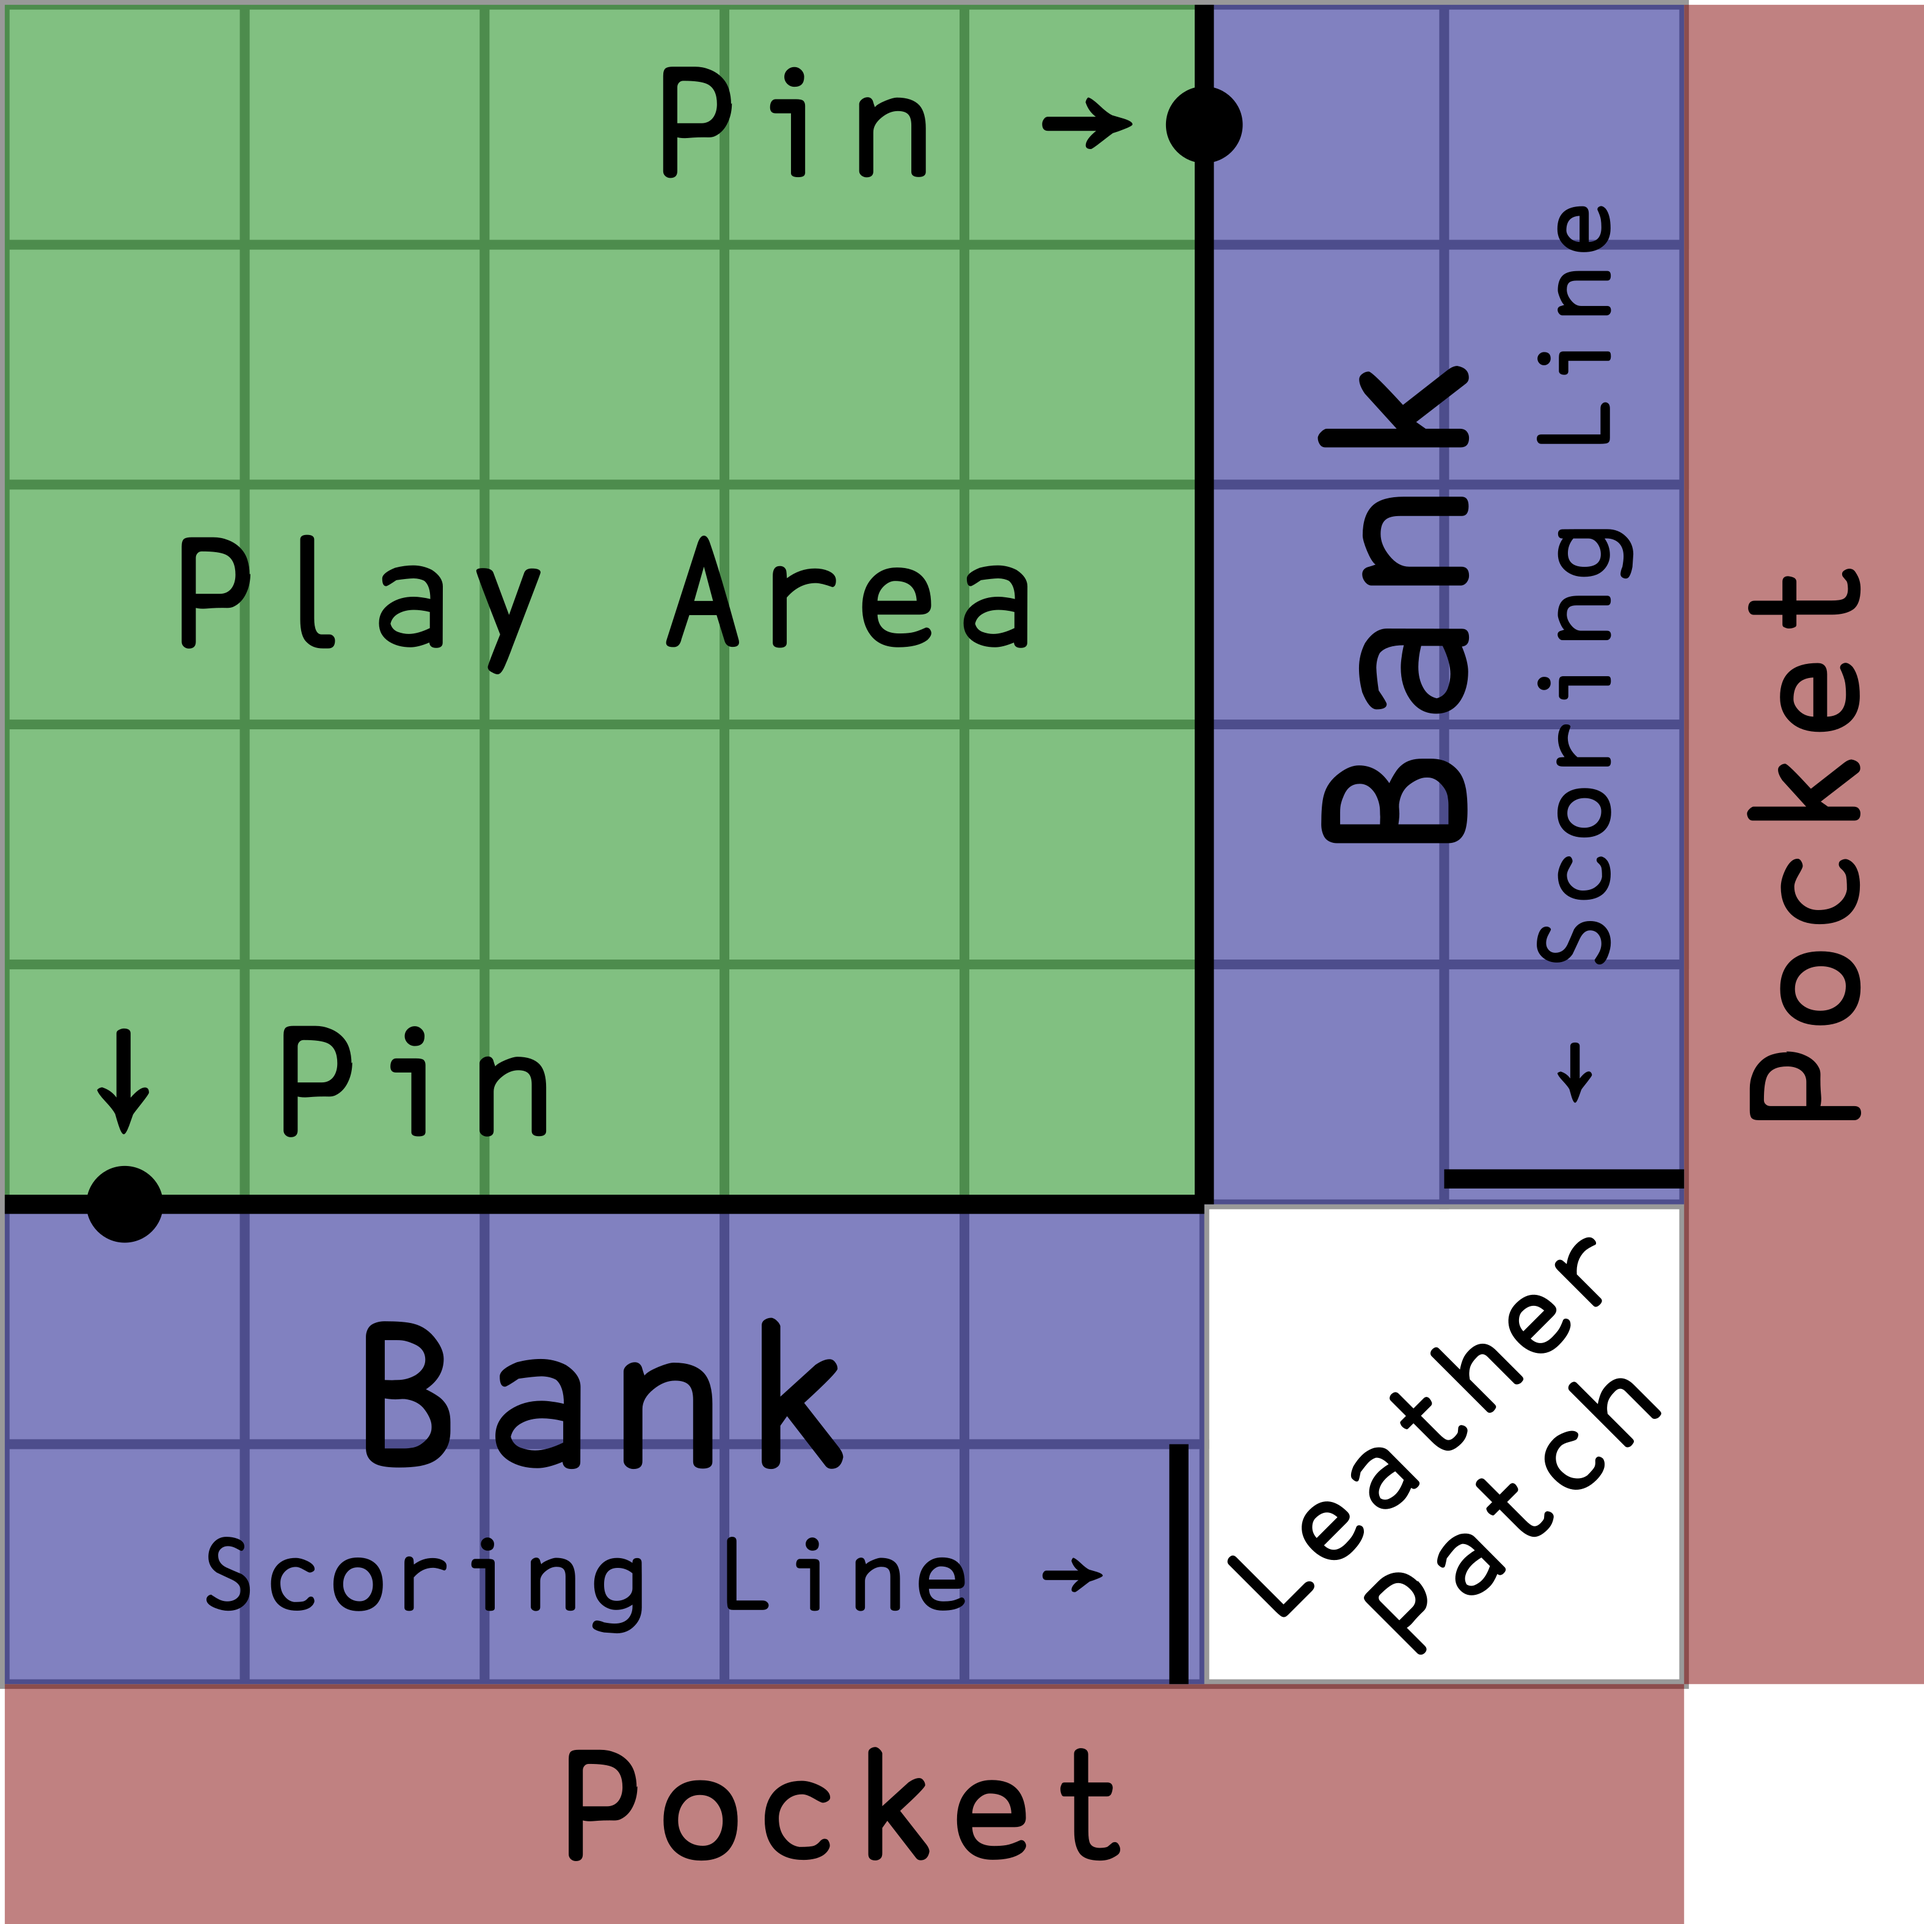
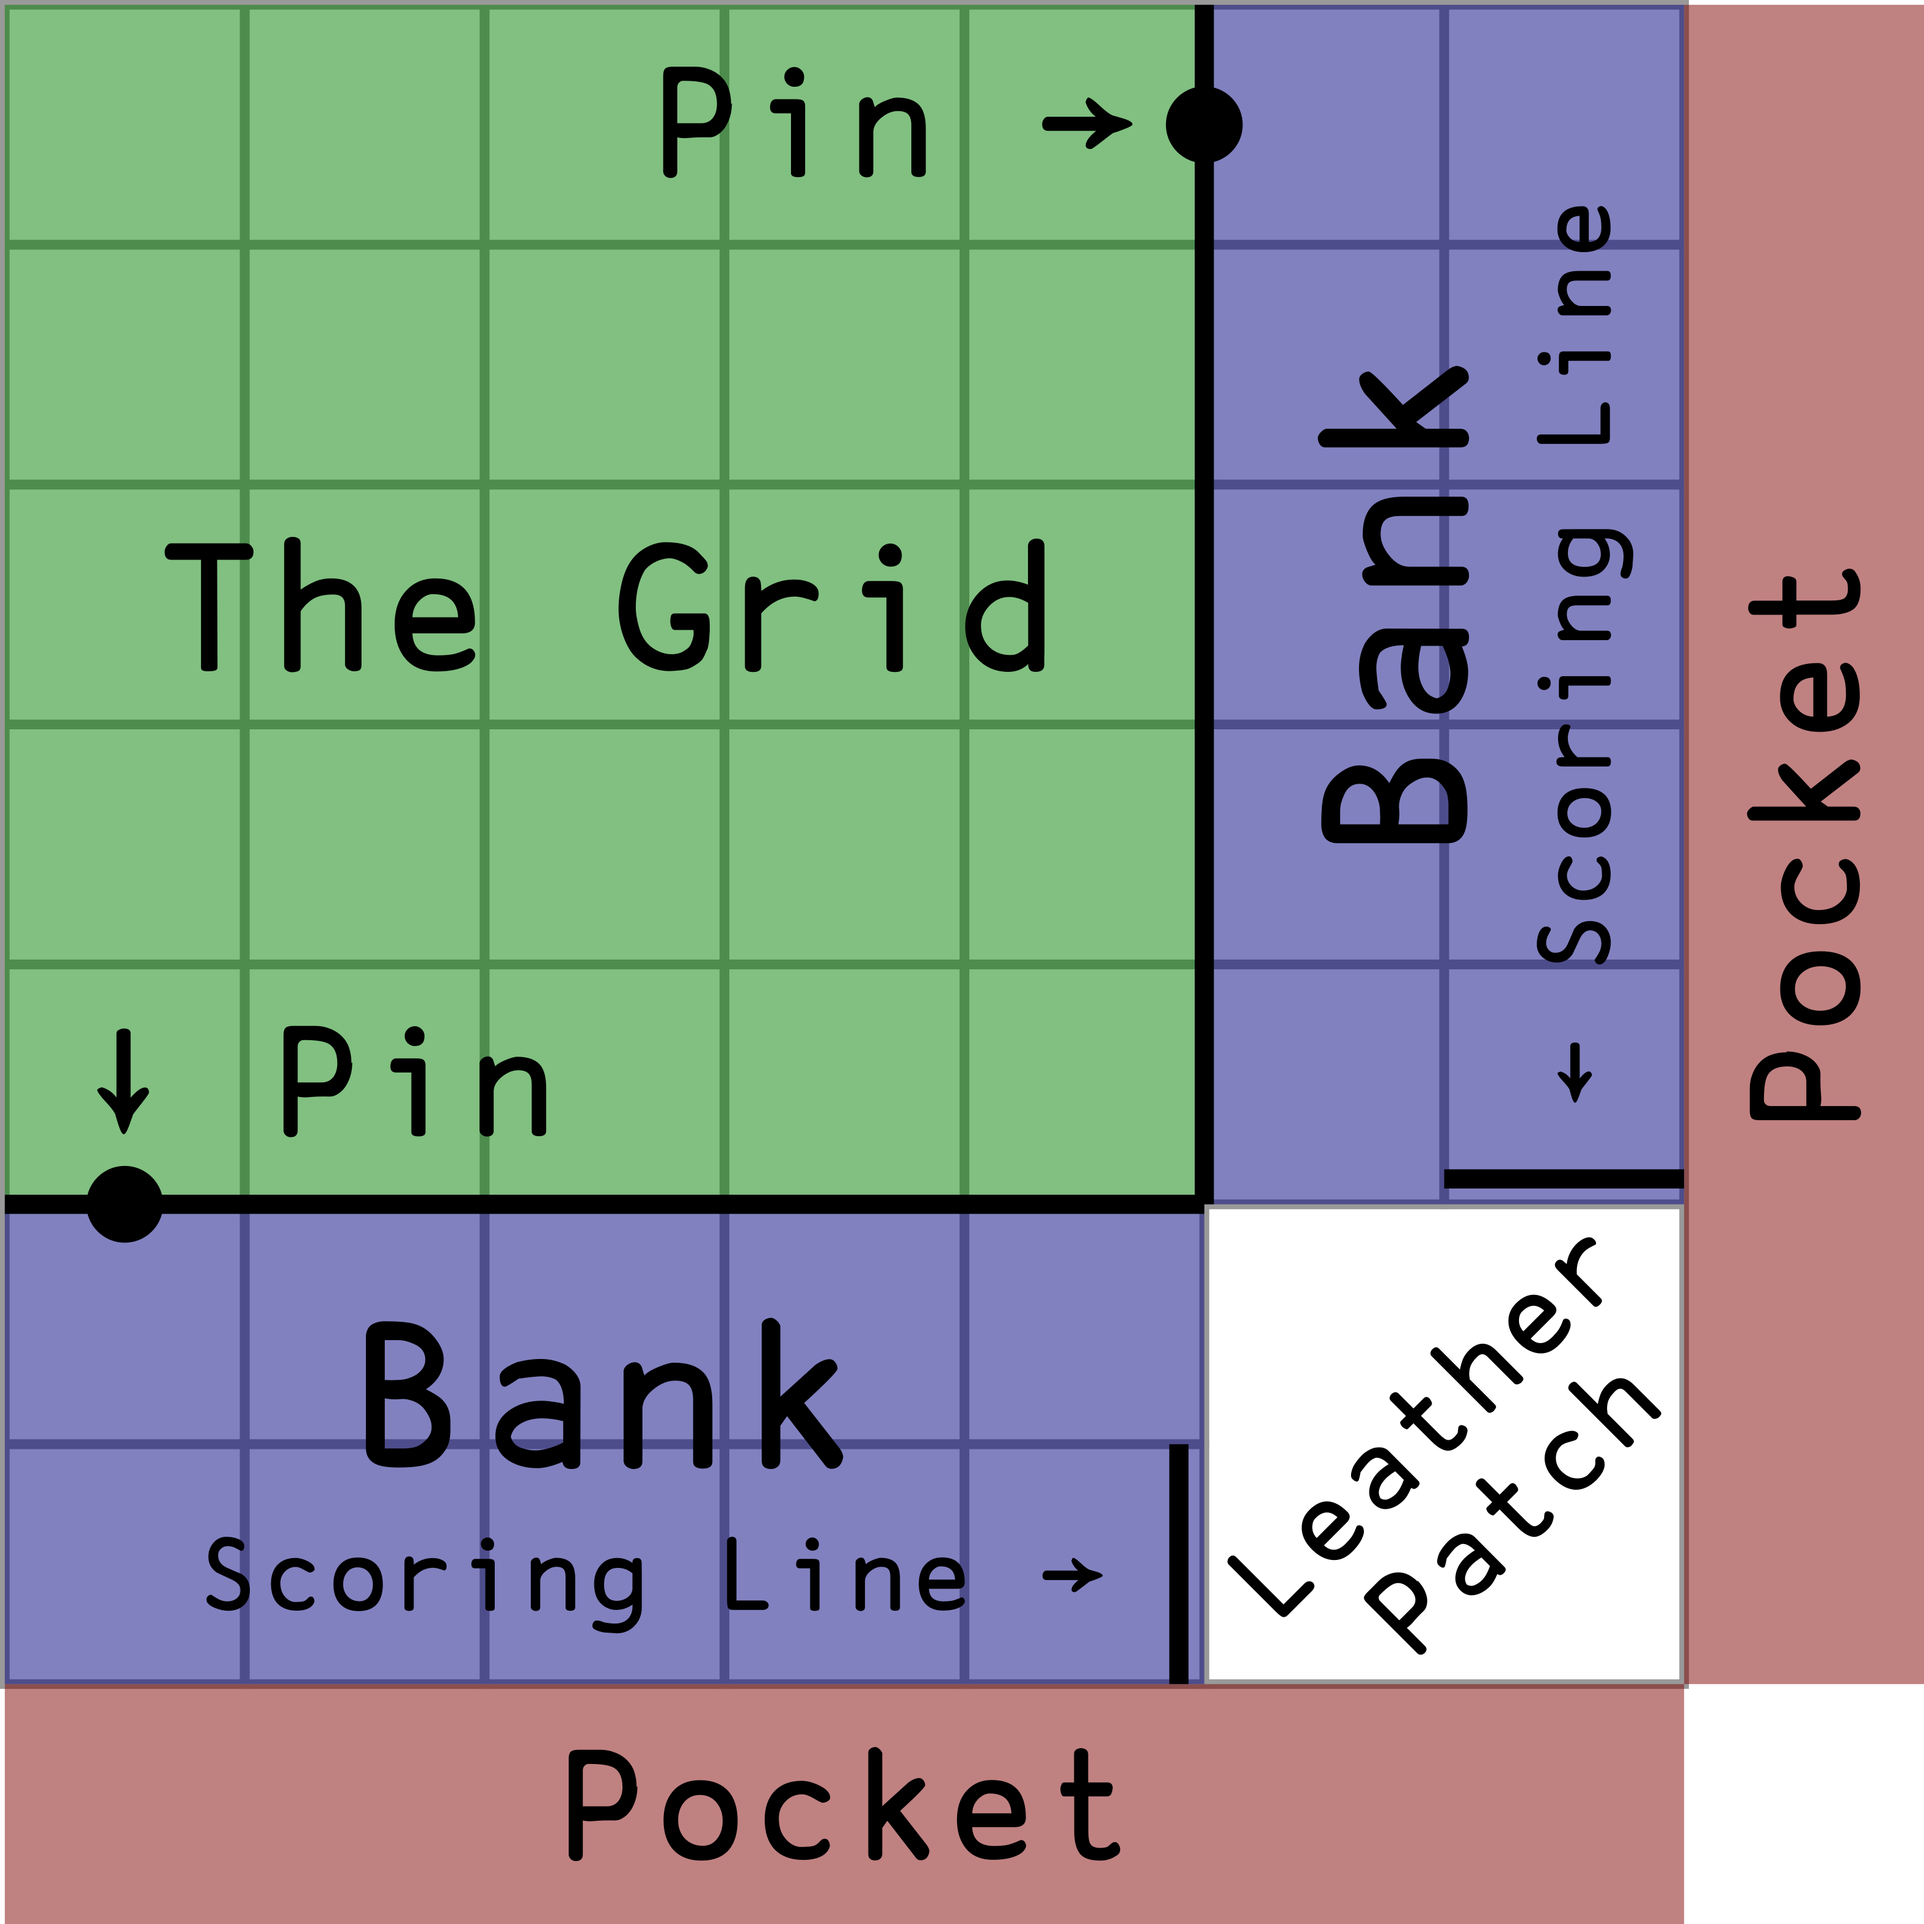
Rename Play Area to Grid

Changed region(s): [[0.3111, 0.28, 0.56, 0.3733], [0.0933, 0.28, 0.28, 0.3733]]

diff --git a/src/sections/anatomy.tex b/src/sections/anatomy.tex
@@ -7,9 +7,9 @@ Each cube has six faces numbered $1, 8, 16, 24, 32, 40$.
 At the beginning of the game, these cubes are rolled in order to randomise starting values, but are not rolled again afterwards.
 \subsection{The Board}
 The game is divided into roughly six different zones (see Figure~\ref{fig:board-anatomy}):
-\paragraph{The Play Area} The main area on which the cubes are moved around. 
+\paragraph{The Grid} The 25 squares that make up the main play area on which the cubes are moved around. 
 This zone is where most of the actual gameplay takes place.
-A pin and a line separates each player's banks from the play area.
+A pin and a line separates each player's banks from the Grid.
 It is through the pins sets are borne off (more on that later), and through the line cubes move out at the start of the game.
 \paragraph{The Two Banks} Each player has one. Banks are private safe zones where no \textit{Pinching} (Section~\ref{sec:pinching}) can occur. Six of the seven cubes start the game in each player's bank.
 The banks are also home to each player's scoring line, where \textit{Bearing Off} (Section~\ref{sec:bearing-off}) takes place.

diff --git a/src/sections/setup.tex b/src/sections/setup.tex
@@ -1,11 +1,11 @@
 \section{Setup}
 \begin{enumerate}
     \item Players decide amongst themselves which colour they wish to play.
-    \item Each player takes six of the seven available cubes and mixes them up, rolling them onto the play area.
+    \item Each player takes six of the seven available cubes and mixes them up, rolling them onto the Grid.
     \item These cubes are then placed in the three middle columns of the bank behind the player's starting line in whichever configuration they see fit.
-    \item Both players now roll the final cube and place it in the middle of the row furthest away from their cubes (see Figure~\ref{fig:setup}).
+    \item Both players now roll the final cube and place it on The Grid in the middle of the row furthest away from their bank (see Figure~\ref{fig:setup}). This cube is known as the \textit{Grid Cube}.
 \end{enumerate}
-The player who rolled the highest number on this cube starts the game.
+The player who rolled the highest number on their grid cube starts the game.
 
 \begin{figure}[!h]
     \centering

diff --git a/src/sections/terminology.tex b/src/sections/terminology.tex
@@ -5,6 +5,7 @@
     \item \textbf{Cube} -- Cube shaped game piece with the numbers 1, 8, 16, 24, 32, 40 on its sides. Not a die.
     \item \textbf{Die} -- Cubes with dots on them, used to determine movement.
     \item \textbf{Dice} -- Plural of \textit{Die}.
+    \item \textbf{Grid} -- The 25 cells that make up the main play area.
     \item \textbf{Pocket} -- The area where a player keeps their pinched and borne-off cubes.
     \item \textbf{Set} -- Two cubes of equal number stacked on top of each other.
 \end{itemize}
